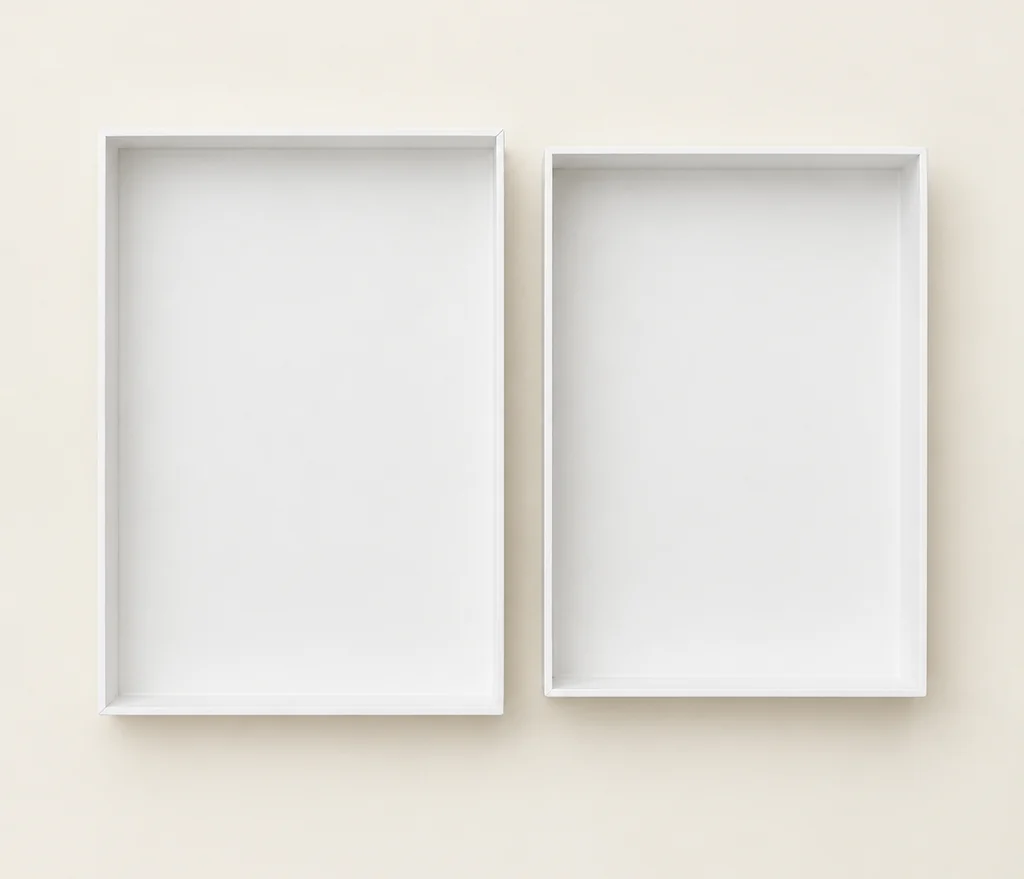
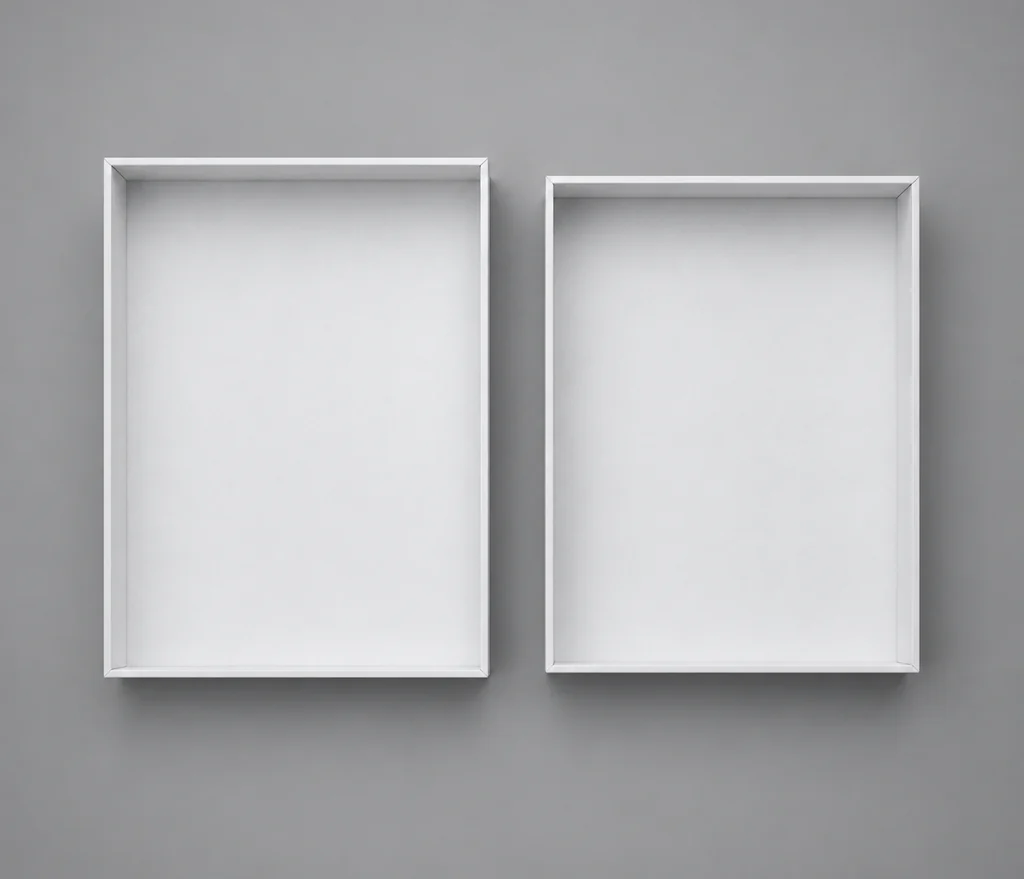
rigid box image: re-shot the plan view on the same neutral grey as the other four structure cards (was warm cream)

diff --git a/capabilities.html b/capabilities.html
@@ -240,7 +240,7 @@
         <!-- 此处原为实拍位。2026-10-05 用户明确：公司产品**全部代工**，成品照片是客户的货，
              不能放官网 ⇒ 该位改为结构插图（实拍位方案作废，docs/SITE_SETUP.md §八 待同步）。 -->
         <figure class="hero__figure">
-          <img src="assets/img/structure-rigid.webp?v=ad717b335f" width="1024" height="879" loading="lazy"
+          <img src="assets/img/structure-rigid.webp?v=0f3b9919e9" width="1024" height="879" loading="lazy"
                alt="Studio illustration of a rigid lid-and-base box shown as a matched pair seen from above: the base tray and its lid tray, both plain unprinted white. Illustration, not a specification.">
           <figcaption>The lid and base are signed off together — in writing, before the run starts.</figcaption>
         </figure>

diff --git a/verify.html b/verify.html
@@ -119,7 +119,7 @@
           </p>
         </div>
         <figure class="hero__figure">
-          <img src="assets/img/structure-rigid.webp?v=ad717b335f" width="1024" height="879"
+          <img src="assets/img/structure-rigid.webp?v=0f3b9919e9" width="1024" height="879"
                alt="Studio illustration of a rigid lid-and-base box shown as a matched pair seen from above: the base tray and its lid tray, both plain unprinted white. Illustration, not a specification.">
           <figcaption>The box in your hand is the one claim nobody has to take on trust.</figcaption>
         </figure>

diff --git a/index.html b/index.html
@@ -282,7 +282,7 @@
         </article>
 
         <article class="card">
-          <img src="assets/img/structure-rigid.webp?v=ad717b335f" width="1024" height="879" loading="lazy"
+          <img src="assets/img/structure-rigid.webp?v=0f3b9919e9" width="1024" height="879" loading="lazy"
                alt="Studio illustration of a rigid lid-and-base box shown as a matched pair seen from above: the base tray and its lid tray, both plain unprinted white. Illustration, not a specification.">
           <h3 class="mt-1">Rigid &amp; gift boxes</h3>
           <p>

diff --git a/products.html b/products.html
@@ -167,7 +167,7 @@
     <div class="wrap">
       <div class="split">
         <figure class="hero__figure">
-          <img src="assets/img/structure-rigid.webp?v=ad717b335f" width="1024" height="879" loading="lazy"
+          <img src="assets/img/structure-rigid.webp?v=0f3b9919e9" width="1024" height="879" loading="lazy"
                alt="Studio illustration of a rigid lid-and-base box shown as a matched pair seen from above: the base tray and its lid tray, both plain unprinted white. Illustration, not a specification.">
         </figure>
         <div>
